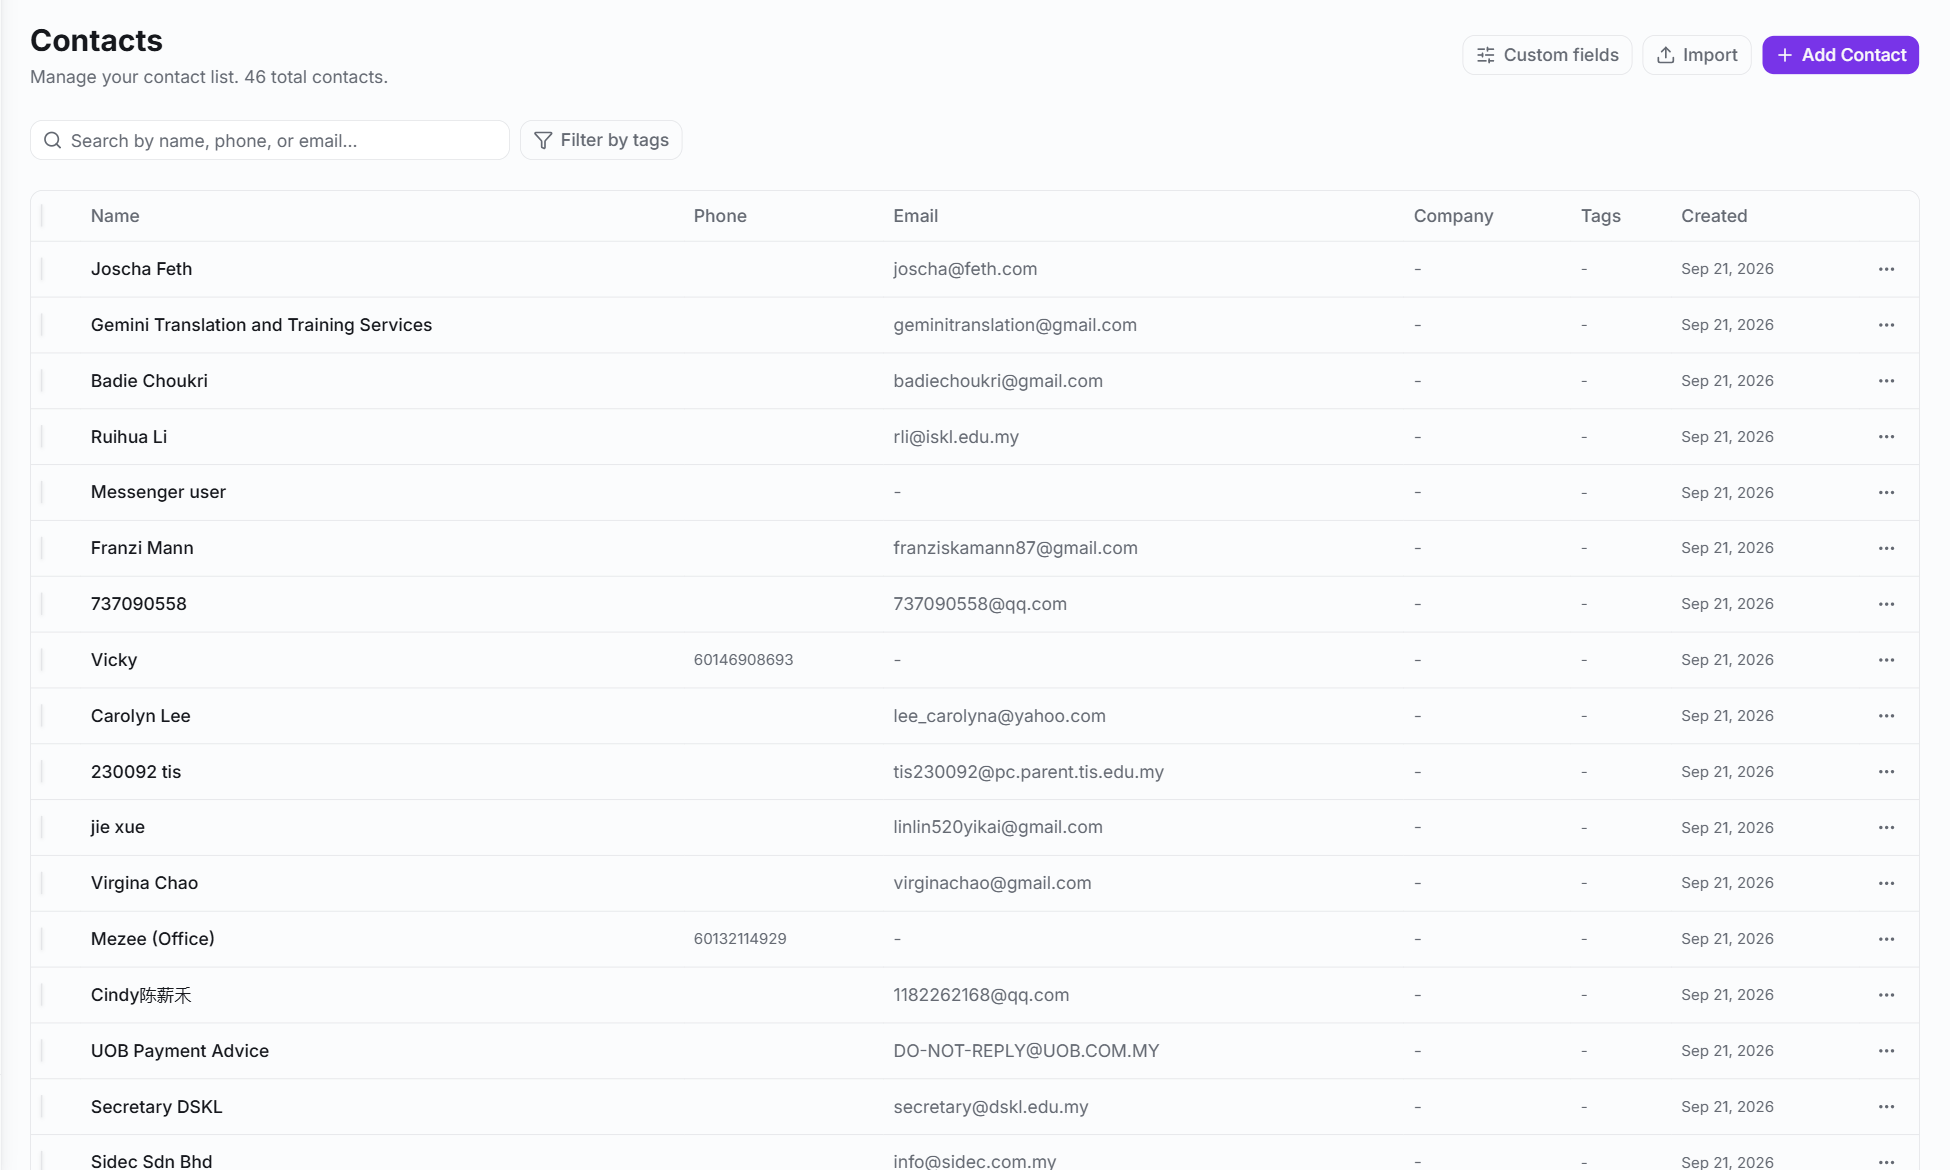
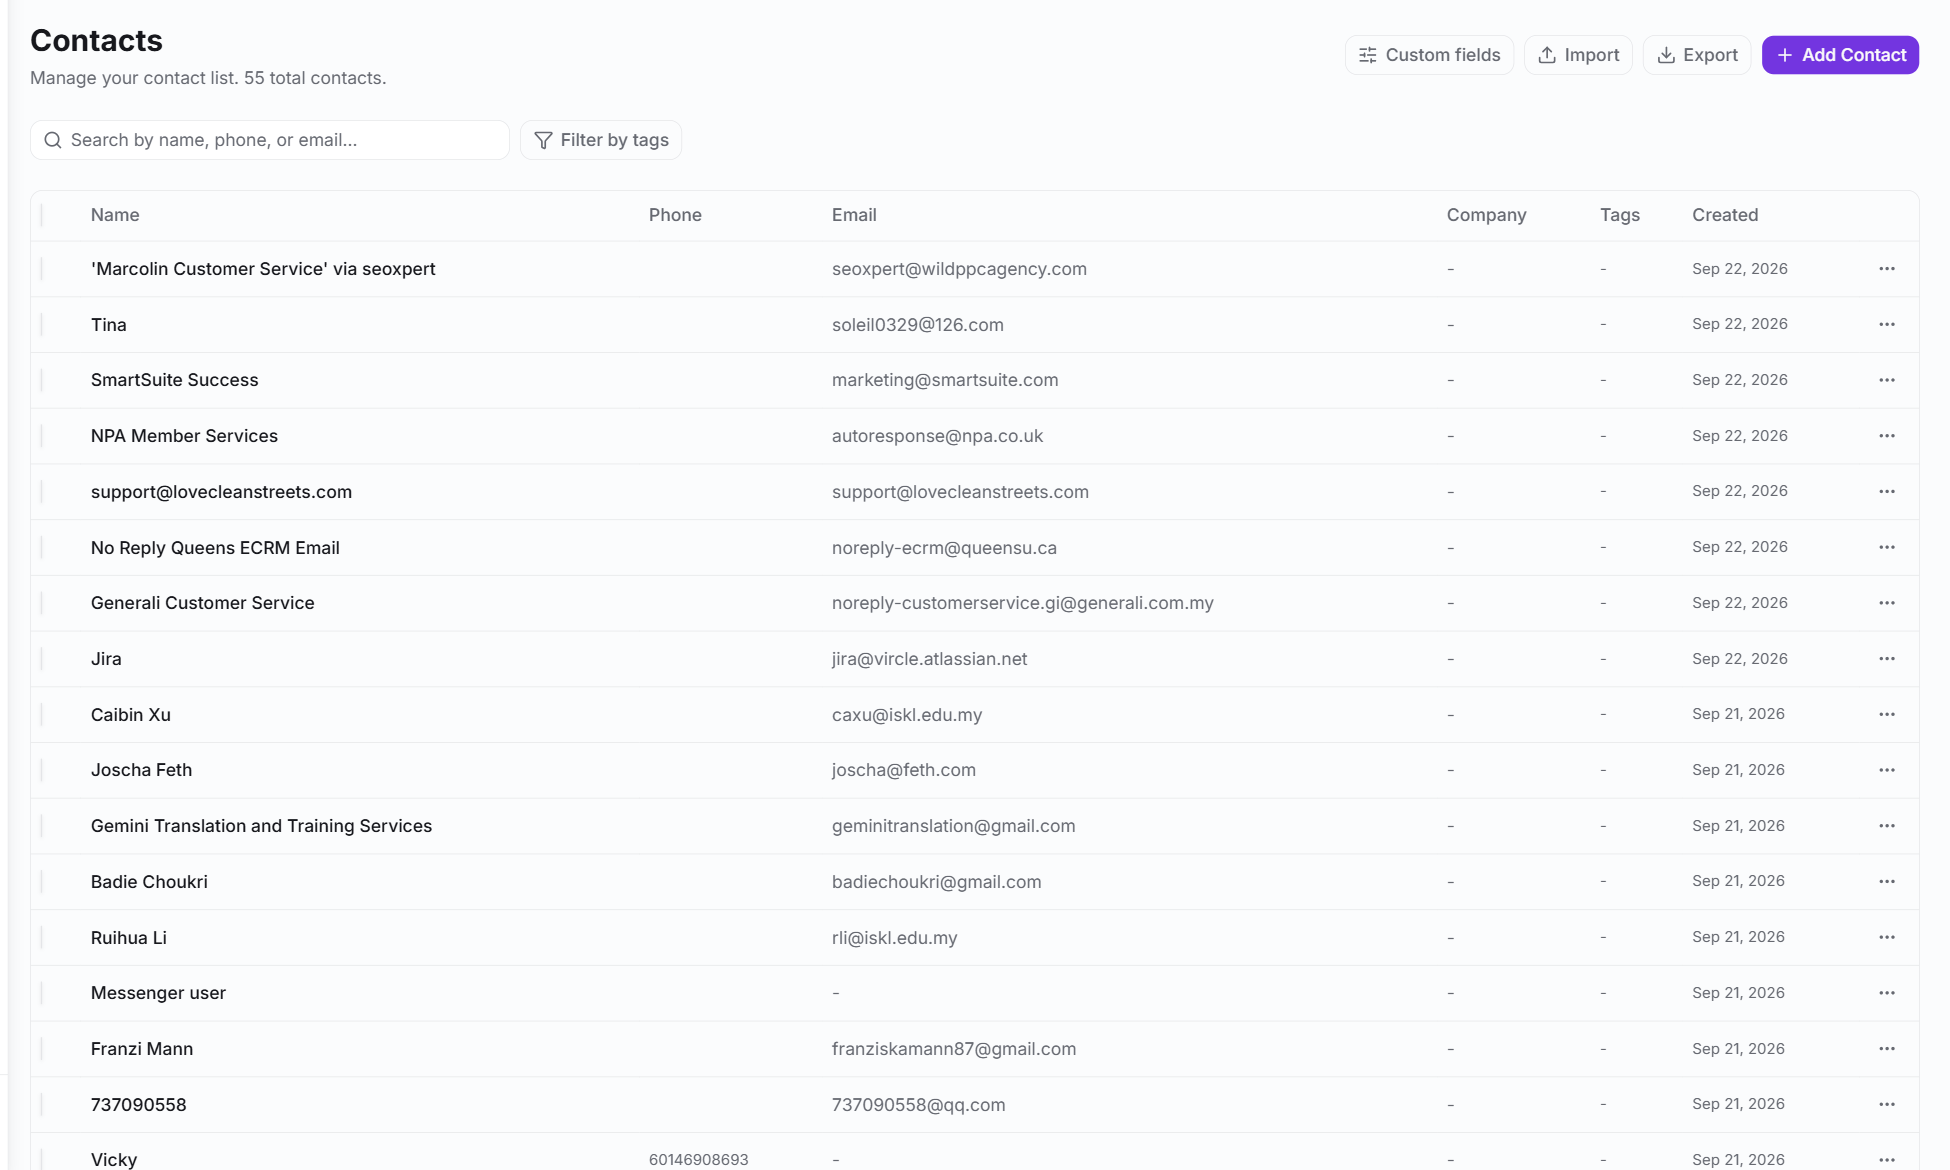
docs(help): retake ticket and contacts screenshots, add resolution box, @mention list and box, Export button (40 images)

diff --git a/content/help/tickets/work-a-ticket.md b/content/help/tickets/work-a-ticket.md
@@ -34,9 +34,13 @@ The person you assign the ticket to gets a notification, unless you assigned it 
 
 When you move a ticket to **Resolved** or **Closed**, a small window asks **How was this resolved?**
 
+![The window that asks how a ticket was resolved, with a Resolution list and an optional note.](/help/img/work-a-ticket-02-resolution-dialog.png)
+
 1. Choose a **Resolution** from the list, for example **Fixed**, **Answered / information given**, **Duplicate**, **Cannot reproduce**, **Won't fix** or **Customer did not respond**. Your admin can change this list.
 2. Type a **Note** if the next person should know something. It is optional and can be up to 2000 characters.
 3. Click **Move to Resolved** (or **Move to Closed**).
+
+![The Resolution list opened, showing Fixed, Answered / information given, Duplicate, Cannot reproduce, Won't fix, Customer did not respond, Resolved in Jira and Closed automatically.](/help/img/work-a-ticket-03-resolution-list.png)
 
 The ticket only moves after you click that button. If you click **Cancel** or close the window, nothing changes and the ticket stays where it was. On the board, the card goes back to its column.
 
@@ -51,8 +55,12 @@ Once the ticket is Resolved or Closed, the **Details** card on the right shows t
 
 1. Under **Activity**, click **Add a comment…**.
 2. Type your comment. Type `@` and a name to mention a teammate. Choose them from the short list, either by clicking, or with the keyboard: the <kbd>↑</kbd> and <kbd>↓</kbd> keys move the shaded row, and <kbd>Enter</kbd> or <kbd>Tab</kbd> picks it. The list shows **People** first and **Teams** below, with the number of members in each team. Once picked, the name gets a coloured box (blue for a person, purple for a team), so you can see the mention has been made. A name that is only half typed has no box.
+![Typing @ in a ticket comment shows a list with People first and Teams below, with the number of members in each team.](/help/img/work-a-ticket-04-mention-list.png)
+
 3. Choose what the mention asks for. As soon as your comment mentions someone, two buttons appear: **Needs a response** (the default) and **FYI only**.
 4. Click **Save**, or press <kbd>Ctrl</kbd>+<kbd>Enter</kbd> (<kbd>Cmd</kbd>+<kbd>Enter</kbd> on a Mac).
+
+![A comment with the picked name in a coloured box, and the Needs a response and FYI only buttons below it.](/help/img/work-a-ticket-05-mention-chip.png)
 
 A mentioned teammate gets a notification. Comments are for your team. The app does not send them to the customer. You can **Edit** or **Delete** your own comments. Use the tabs **All**, **Comments** and **History** to filter the timeline, and switch between **Newest first** and **Oldest first**.
 

diff --git a/content/help/contacts/import-and-export.md b/content/help/contacts/import-and-export.md
@@ -60,6 +60,8 @@ To save your contacts as a file:
 1. Click **Contacts** in the sidebar.
 2. If you only want some contacts, type in the search box or choose tags with **Filter by tags**. The file follows what you have set, and it holds every match, not just the 25 on the page.
 3. Click **Export**.
+
+![The Custom fields, Import, Export and Add Contact buttons at the top right of the Contacts page.](/help/img/import-and-export-02-export-button.png)
 4. Wait a moment. A file called `contacts-` and the date, ending in `.csv`, is saved by your browser.
 
 The file has the columns `phone`, `name`, `email`, `company` and `tags`, and a `created_at` column with the date the contact was added. Tag names are separated by a semicolon and a space. Custom fields, notes and deals are not in the file.
